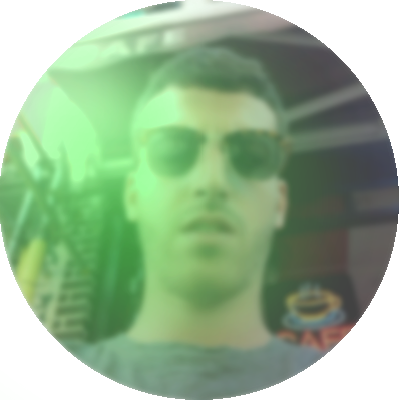
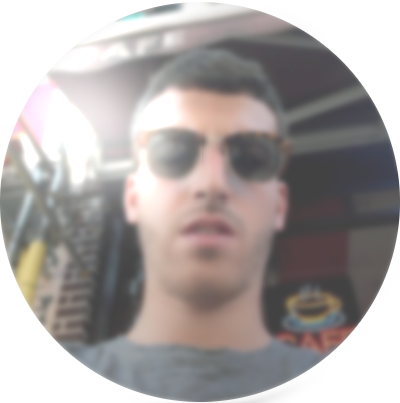
final image

diff --git a/_sass/custom.scss b/_sass/custom.scss
@@ -3,13 +3,18 @@
 	height: 120px;
 	margin: 0 auto;
 	border: 5px solid #ededed;
-	background-image: url(/assets/images/profilo-logo-hover.png);
+	background-image: url(/assets/images/profilo.png);
 	background-size: cover;
 	background-position: center;
 	border-radius: 90px;
 	&:hover{
+	-webkit-transition: opacity 1s ease-in-out;
+	-moz-transition: opacity 1s ease-in-out;
+	-o-transition: opacity 1s ease-in-out;
+	-ms-transition: opacity 1s ease-in-out; 
+	transition: opacity 1s ease-in-out;
 	border: 5px solid lime;
-	opacity: 0.7;
+	background-image: url(/assets/images/profilo-v.png);
 	}
 }
 
